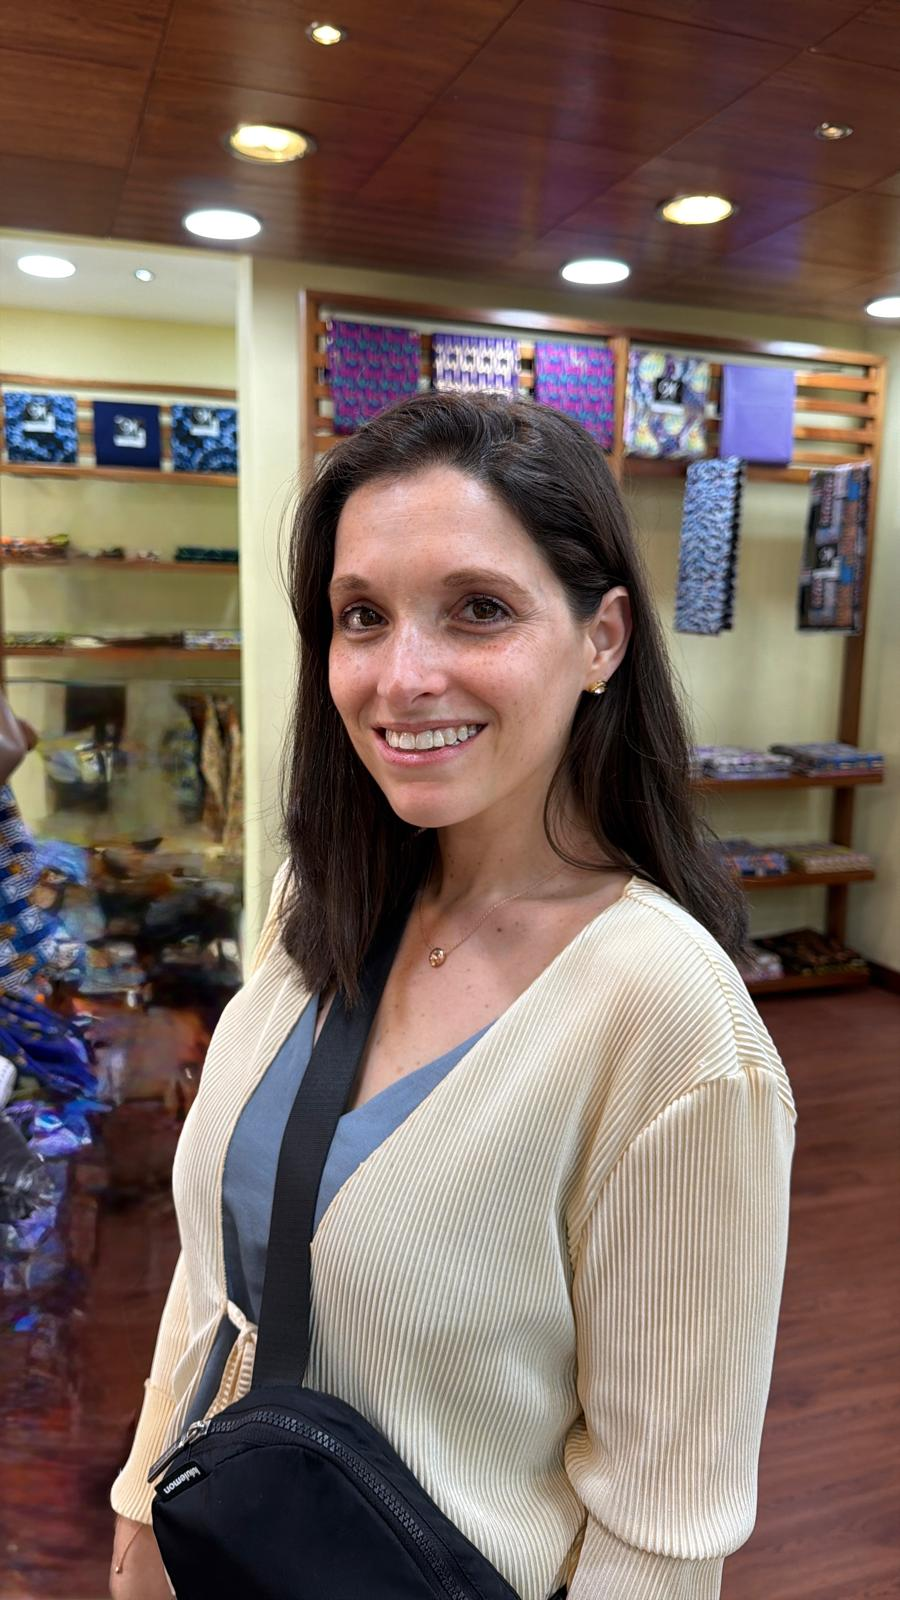
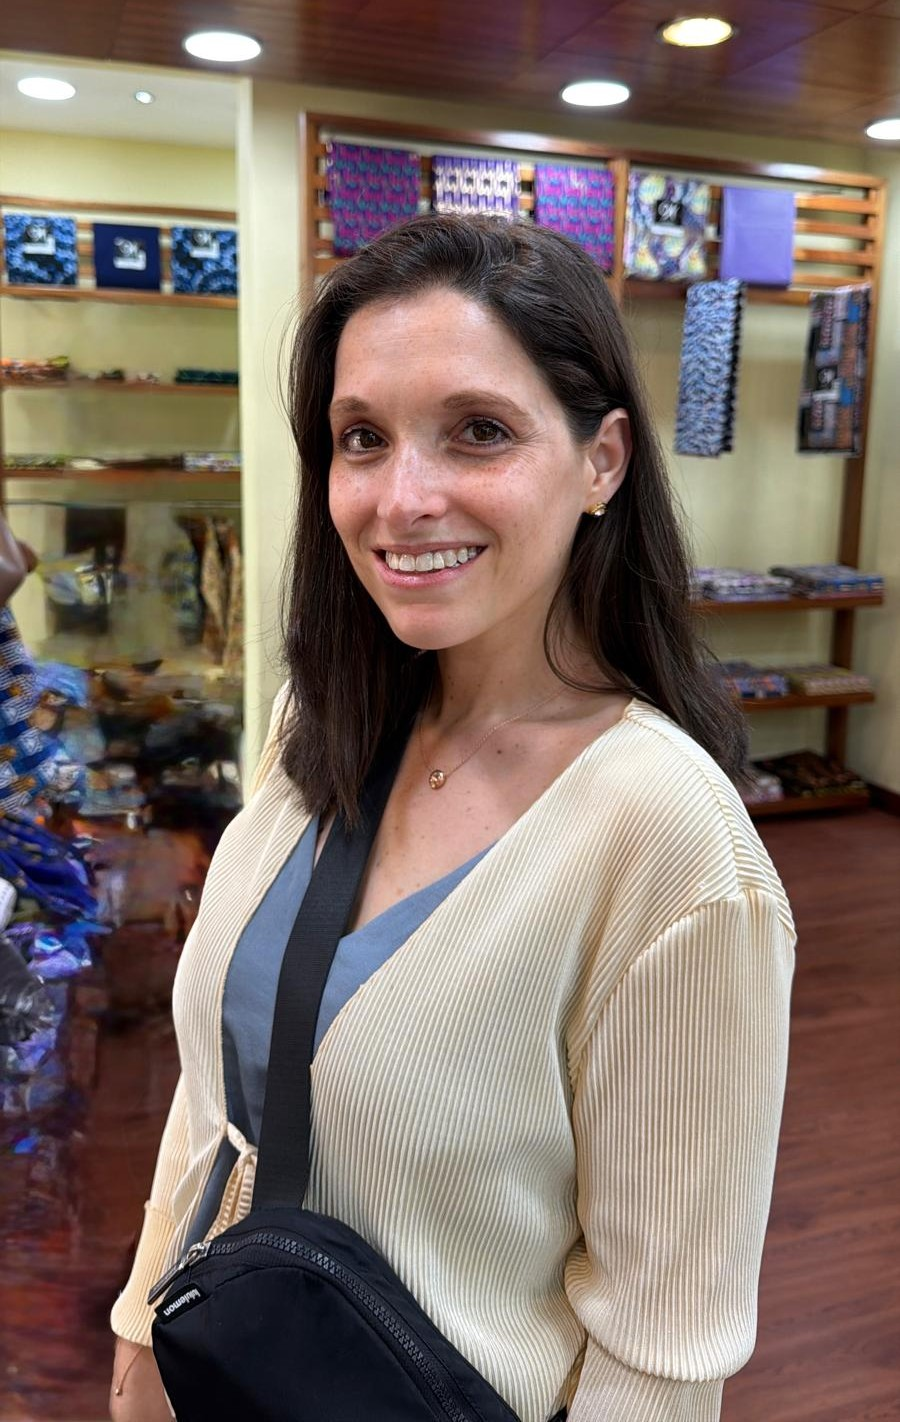
Upd

diff --git a/src/pages/home.tsx b/src/pages/home.tsx
@@ -132,24 +132,24 @@ export default function Home() {
 
             <Countdown />
 
-            <div className="flex flex-wrap gap-3 md:gap-4 mt-2 md:mt-4">
-              <Link href="/register">
+            <div className="flex flex-wrap gap-3 md:gap-4 mt-4">
+              <Link href="/workshop">
                 <Button
                   size="lg"
                   className="bg-accent text-accent-foreground hover:bg-accent/90 h-12 md:h-14 px-6 md:px-8 text-sm md:text-base font-bold shadow-lg"
-                  data-testid="button-register-hero"
+                  data-testid="button-programme-hero"
                 >
-                  Register to Attend
+                  View Programme
                 </Button>
               </Link>
-              <Link href="/workshop">
+              <Link href="/about">
                 <Button
                   size="lg"
                   variant="outline"
                   className="h-12 md:h-14 px-6 md:px-8 text-sm md:text-base font-bold bg-transparent border-white text-white hover:bg-white/10"
-                  data-testid="button-programme-hero"
+                  data-testid="button-about-hero"
                 >
-                  View Programme
+                  About the Initiative
                 </Button>
               </Link>
             </div>
@@ -401,17 +401,18 @@ export default function Home() {
             Join the National Conversation
           </h2>
           <p className="text-base md:text-xl text-muted/80 mb-8 md:mb-12 font-light">
-            Be part of the First National Stakeholder Consultation & Co-Design
-            Workshop shaping the future of tuberculosis care in Ghana.
+            Explore the workshop programme, meet the speakers, and reach out to
+            the secretariat for any enquiries about the First National
+            Stakeholder Consultation & Co-Design Workshop.
           </p>
           <div className="flex flex-col sm:flex-row items-center justify-center gap-4">
-            <Link href="/register">
+            <Link href="/workshop">
               <Button
                 size="lg"
                 className="w-full sm:w-auto bg-primary hover:bg-primary/90 text-primary-foreground h-12 md:h-14 px-6 md:px-8 text-base md:text-lg font-bold"
-                data-testid="button-register-cta"
+                data-testid="button-programme-cta"
               >
-                Register Now
+                View Programme
                 <ArrowRight className="ml-2" size={20} />
               </Button>
             </Link>

diff --git a/src/pages/workshop.tsx b/src/pages/workshop.tsx
@@ -119,6 +119,14 @@ const chairs = [
     email: "[email redacted]",
     photo: chairBernard,
   },
+  {
+    name: "Dr. Meredith Brooks",
+    credentials: null,
+    role: "Workshop Co-Chair",
+    org: "Boston University School of Public Health",
+    email: null,
+    photo: speakerMeredith,
+  },
 ];
 
 export default function Workshop() {
@@ -381,7 +389,7 @@ export default function Workshop() {
             <div className="w-16 h-1 bg-primary mx-auto" />
           </motion.div>
 
-          <div className="grid grid-cols-1 md:grid-cols-2 gap-5 md:gap-8 max-w-3xl mx-auto">
+          <div className="grid grid-cols-1 md:grid-cols-3 gap-5 md:gap-8 max-w-4xl mx-auto">
             {chairs.map((chair, i) => (
               <motion.div
                 key={i}

diff --git a/src/App.tsx b/src/App.tsx
@@ -27,7 +27,7 @@ function Router() {
         <Route path="/workshop" component={Workshop} />
         <Route path="/partners" component={Partners} />
         <Route path="/media" component={Media} />
-        <Route path="/register" component={Register} />
+        {/* <Route path="/register" component={Register} /> */}
         <Route path="/admin" component={Admin} />
         <Route component={NotFound} />
       </Switch>

diff --git a/src/components/Navbar.tsx b/src/components/Navbar.tsx
@@ -66,7 +66,7 @@ export default function Navbar() {
             ))}
             <Link href="/register">
               <Button
-                className={`font-semibold shadow-sm ${
+                className={`hidden font-semibold shadow-sm ${
                   location === "/register"
                     ? "bg-primary/80 text-white"
                     : "bg-primary hover:bg-primary/90 text-white"